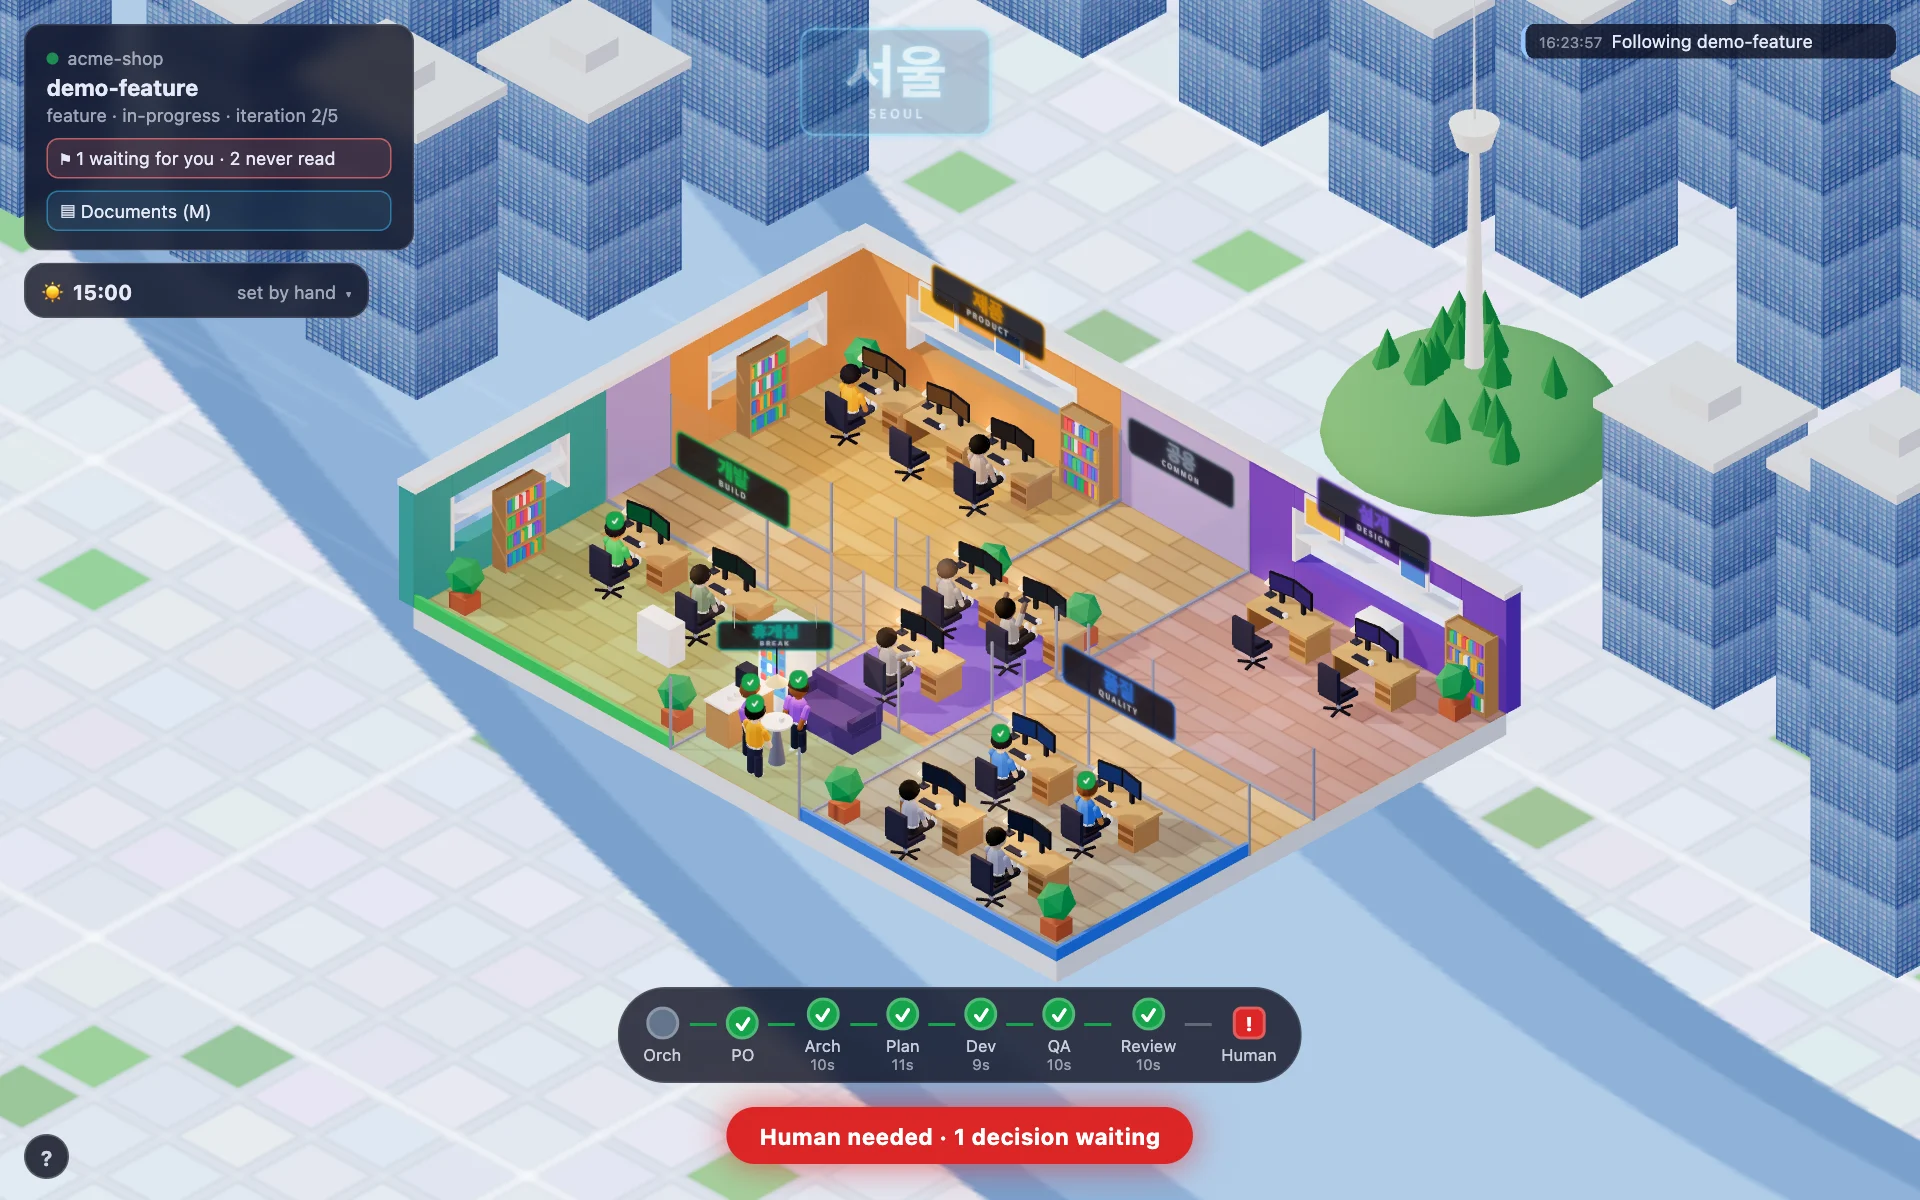
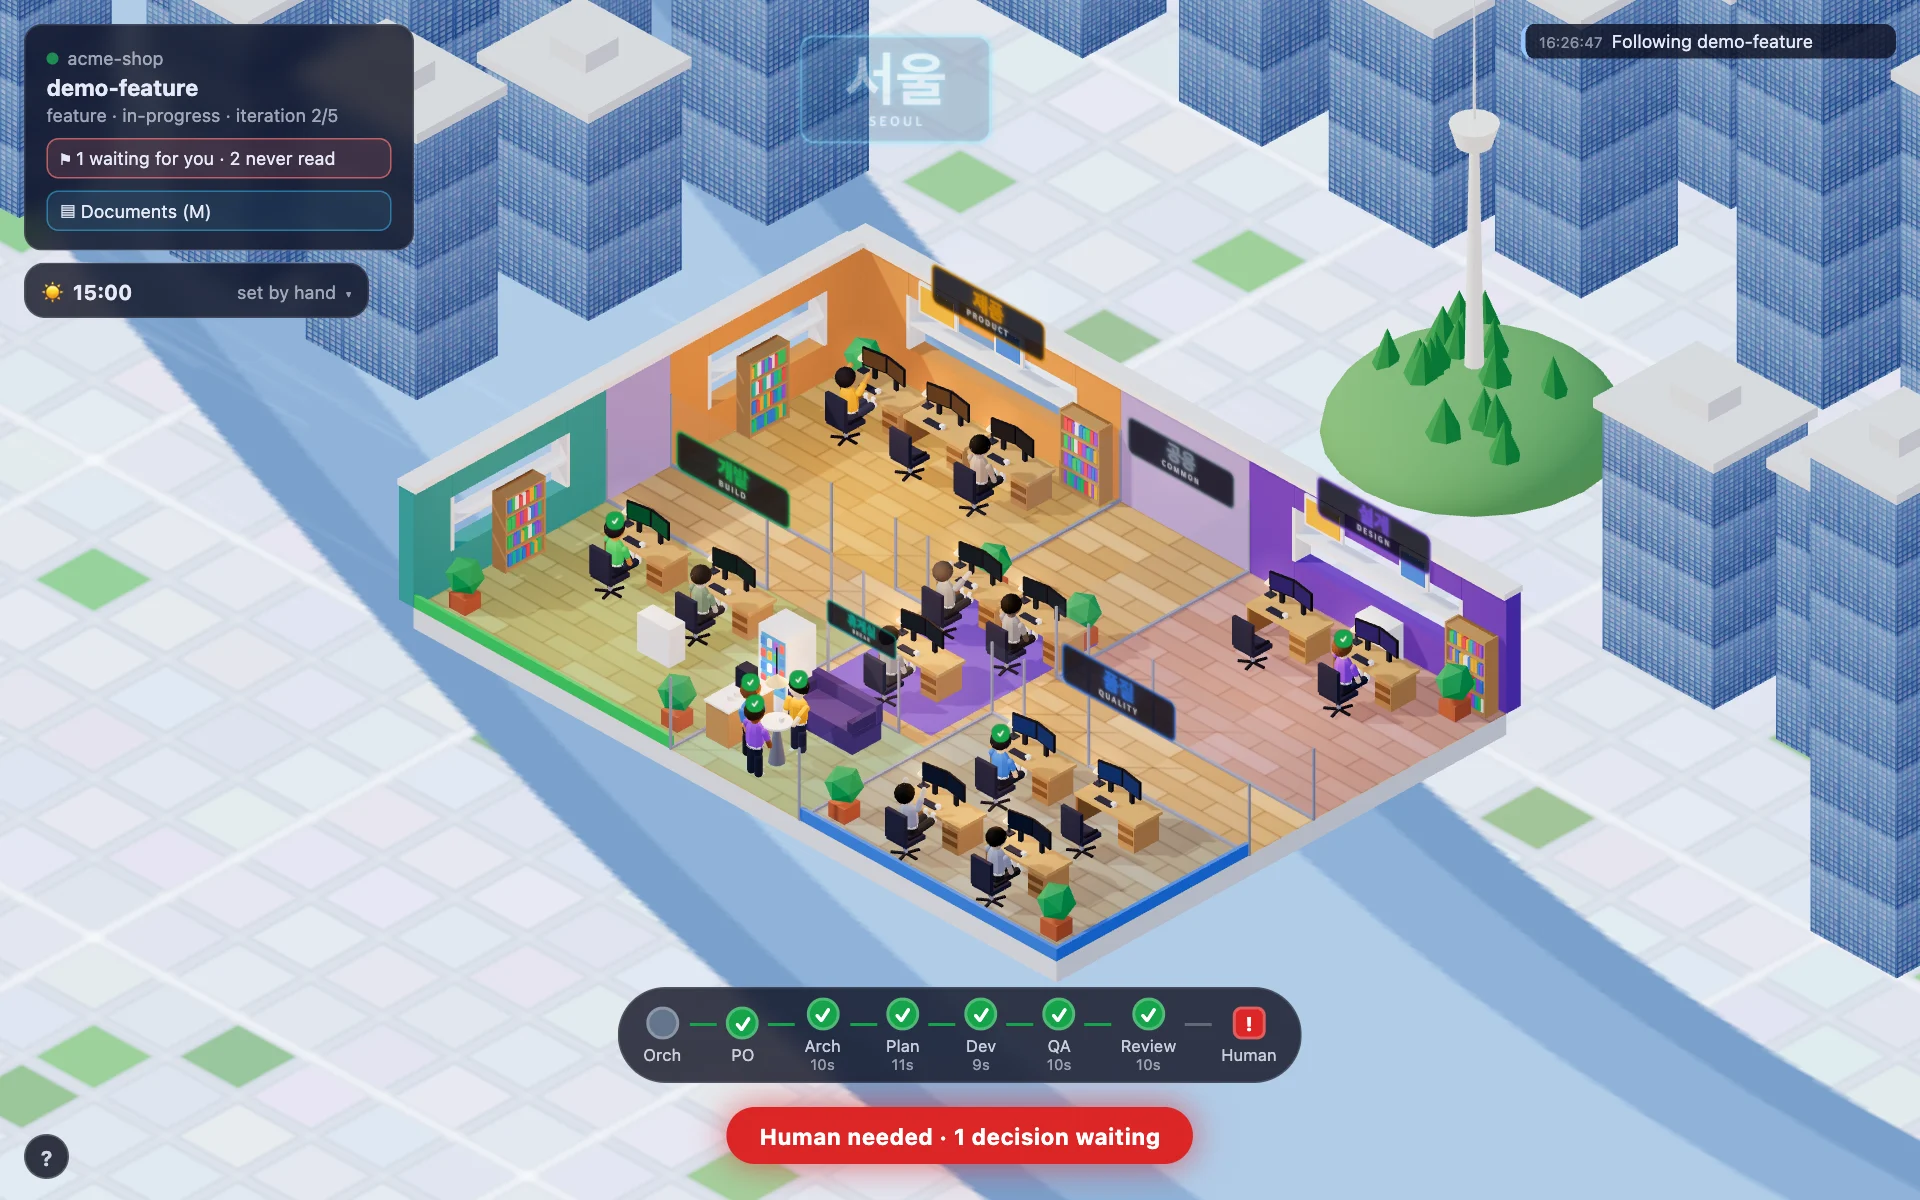
Office floor: the break room's sign rests on its glass, like the other rooms'
- On the glass behind the sofa, facing the room, as wide as the glass in the proportions of the other signs
- README and break-room screenshot updated

diff --git a/tools/office/web/scene.js b/tools/office/web/scene.js
@@ -376,18 +376,11 @@ export function createScene(canvas, layout) {
   tableFoot.position.set(HIGH_TABLE.x, 0.515, HIGH_TABLE.z);
   scene.add(tableTop, tableFoot, box(0.09, 0.11, 0.09, 0xf1f5f9, [HIGH_TABLE.x + 0.1, 1.13, HIGH_TABLE.z - 0.05]));
   const breakLabel = useHangul ? "휴게실" : "break";
-  const breakSign = new THREE.Mesh(new THREE.PlaneGeometry(2.6, 0.82), new THREE.MeshBasicMaterial({ map: signTexture(breakLabel, BREAK_ROOM.color, useHangul ? "BREAK" : null), transparent: true, toneMapped: false }));
+  const breakSign = new THREE.Mesh(new THREE.PlaneGeometry(2.2, 0.69), new THREE.MeshBasicMaterial({ map: signTexture(breakLabel, BREAK_ROOM.color, useHangul ? "BREAK" : null), transparent: true, toneMapped: false }));
   SIGN_MATERIALS.push(breakSign.material);
-  // Hung over the coffee counter and turned to the camera, which looks from +x, +z: flat on the partition, it read edge-on.
-  breakSign.rotation.y = Math.PI / 4;
-  breakSign.position.set(COFFEE.x + 0.5, 2.45, COFFEE.z - 0.6);
-  scene.add(breakSign, glow(new THREE.Color(BREAK_ROOM.color), 2.6, 0.2, [breakSign.position.x + 0.14, breakSign.position.y, breakSign.position.z + 0.14]));
-  for (const dx of [-0.9, 0.9]) {
-    // Two thin cords from the ceiling, along the sign.
-    const cord = box(0.02, 0.6, 0.02, 0x8a93ad, [breakSign.position.x + dx * Math.SQRT1_2, 2.95, breakSign.position.z - dx * Math.SQRT1_2]);
-    cord.castShadow = false;
-    scene.add(cord);
-  }
+  // Like the front rooms' signs: resting on the glass at the back of the room (behind the sofa), facing the room.
+  breakSign.position.set(SOFA.x, 1.9 + 0.345, 10.06); // as wide as the glass, in the proportions of the others
+  scene.add(breakSign, glow(new THREE.Color(BREAK_ROOM.color), 2.2, 0.2, [breakSign.position.x, breakSign.position.y, breakSign.position.z + 0.2]));
   for (const [x, w] of [[2.4, 1.2], [4.6, 0.9], [14.4, 1.2], [17.2, 0.9]]) {
     scene.add(box(w, 0.8, 0.06, 0xf4f6fb, [x, 2.55, 0.06]), box(w - 0.16, 0.64, 0.02, [0xe8505b, 0x3b82f6, 0xf5a623, 0x22c55e][Math.round(x) % 4], [x, 2.55, 0.1], { emissive: 0x111111 }));
   }

diff --git a/tools/office/README.md b/tools/office/README.md
@@ -36,7 +36,7 @@ It needs Python 3 and a browser; nothing to install. The server listens on `127.
 - **Journal:** the last events (a role started, finished, is blocked, a verdict, an iteration), at the top right.
 - **Banner:** `Ready to merge`, `Human needed`, `<role> is blocked`, or who is at work. The tab title carries the same state.
 - **Agents:** the roles of the run stand out and the others fade to grey. A glyph above each head shows its state (`…` working, `✓` done), a ring under whoever is at work pulses in the color of its state, and a large `?` or `!` says a role is blocked or waits for a human. A walking agent says who it hands over to, goes round the desks, chairs, partitions and furniture, and leaves a dotted trail on the floor in the color of the receiving team (red after a NO-GO), which whatever stands on it hides; once the folder is handed over it walks back to its desk empty-handed, without the badge, even if the next handoff has begun.
-- **Rooms:** each is named in Hangul with its Latin name under it, hung facing the desks: on the north wall for product and design, on top of the glass partition at the back of build and quality, which have no wall there, and low on the hub.
+- **Rooms:** each is named in Hangul with its Latin name under it, hung facing the desks: on the north wall for product and design, on top of the glass partition at the back of build, quality and the break room, which have no wall there, and low on the hub.
 
 ## Day and night
 
@@ -54,7 +54,7 @@ The time box under the run card is folded to the hour; click it to open the cont
 
 ## Break room
 
-![The break room past the hub, behind its glass: a coffee counter under its sign, a high table under a pendant lamp, the sofa facing the room](docs/break-room.webp)
+![The break room past the hub, its sign on the glass behind the sofa, which faces the room; a coffee counter and a high table under a pendant lamp](docs/break-room.webp)
 
 Past the hub, behind a glass wall with a doorway at each end, the `휴게실` (break) room has its own warm light, a sofa facing the room, the vending machine, a coffee counter and a high table under a pendant lamp. Now and then a role of the run with nothing to do strolls there, sits on the sofa or stands at the counter or the table for a while, then walks back to its desk; the tooltip says `on a break`. Someone at the high table draws the next one there more often than not, and two at the table chat: they turn their heads to each other, nod and talk with a hand. No more than three are away at once, so the floor still reads who is where, and they leave no trail: a dotted trail always means a handoff. A role that is at work, blocked, waiting for a human, about to receive a folder, shown in the panel, or outside the run stays at its desk, and one on a break goes straight back when work comes its way. `?breaks=off` keeps everyone at their desk and `?breaks=busy` fills the break room at once, for a screenshot or a test.
 
